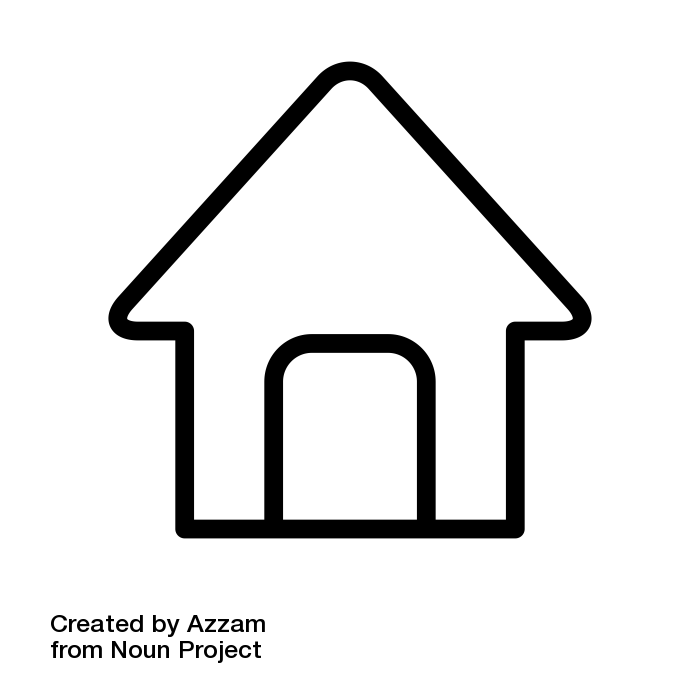
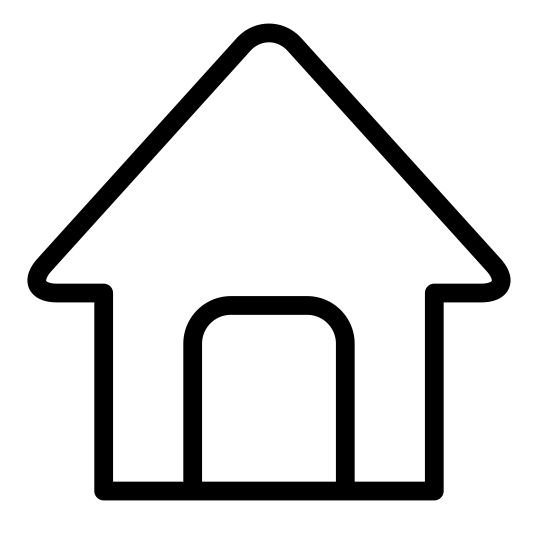
Css

Changed region(s): [[0.0299, 0.031, 0.957, 0.9599]]

diff --git a/dificuldades.html b/dificuldades.html
@@ -50,23 +50,22 @@
         <footer>
             <section class="border">
                 <a href="aprender.html">
-                    <h3>aprender</h3>
+                    <img class="img_raposa" src="Img\Fox.png" alt="raposa cozinheira">
                 </a>
-                <img src="https://fakeimg.pl/40x40" alt="raposa cozinheira">
+                
             </section>
     
             <section class="border">
                 <a href="index.html">
-                    <h3>home</h3>
+                    <img src="Img\Home.png" class="img_casa" alt="casinha">
                 </a>
-                <img src="https://fakeimg.pl/40x40" alt="casinha">
+                
             </section>
     
             <section class="border">
                 <a href="progresso.html">
-                    <h3>progresso</h3>
+                    <img class="img_progresso" src="Img\Progresso.png" alt="foto de estatisticas">
                 </a>
-                <img src="https://fakeimg.pl/50x50" alt="foto de estatisticas">
             </section>
         </footer>
     </body>

diff --git a/Css/Style_filtrados.css b/Css/Style_filtrados.css
@@ -62,3 +62,18 @@ h2{
     margin: 0.5rem;
     color: red;
 }
+
+.img_raposa{
+    max-width:80% ;
+    max-height: 80%;
+}
+
+.img_casa{
+    max-width:60% ;
+    max-height: 80%;
+}
+
+.img_progresso{
+    max-width:70% ;
+    max-height: 80%;
+}

diff --git a/Css/Style_filtro.css b/Css/Style_filtro.css
@@ -58,3 +58,18 @@ h2{
     margin: 0.5rem;
     color: red;
 }
+
+.img_raposa{
+    max-width:80% ;
+    max-height: 80%;
+}
+
+.img_casa{
+    max-width:60% ;
+    max-height: 80%;
+}
+
+.img_progresso{
+    max-width:70% ;
+    max-height: 80%;
+}

diff --git a/Css/Style_historico.css b/Css/Style_historico.css
@@ -66,3 +66,18 @@ h2{
     margin: 0.5rem;
     color: red;
 }
+
+.img_raposa{
+    max-width:80% ;
+    max-height: 80%;
+}
+
+.img_casa{
+    max-width:60% ;
+    max-height: 80%;
+}
+
+.img_progresso{
+    max-width:70% ;
+    max-height: 80%;
+}

diff --git a/Css/Style_index.css b/Css/Style_index.css
@@ -66,3 +66,18 @@ h2{
     margin: 0.5rem;
     color: red;
 }
+
+.img_raposa{
+    max-width:80% ;
+    max-height: 80%;
+}
+
+.img_casa{
+    max-width:60% ;
+    max-height: 80%;
+}
+
+.img_progresso{
+    max-width:70% ;
+    max-height: 80%;
+}

diff --git a/Css/Style_progresso.css b/Css/Style_progresso.css
@@ -53,3 +53,18 @@ h2{
     margin: 0.5rem;
     color: red;
 }
+
+.img_raposa{
+    max-width:80% ;
+    max-height: 80%;
+}
+
+.img_casa{
+    max-width:60% ;
+    max-height: 80%;
+}
+
+.img_progresso{
+    max-width:70% ;
+    max-height: 80%;
+}

diff --git a/Css/Style_receitas.css b/Css/Style_receitas.css
@@ -55,3 +55,18 @@ h2{
     margin: 0.5rem;
     color: red;
 }
+
+.img_raposa{
+    max-width:80% ;
+    max-height: 80%;
+}
+
+.img_casa{
+    max-width:60% ;
+    max-height: 80%;
+}
+
+.img_progresso{
+    max-width:70% ;
+    max-height: 80%;
+}

diff --git a/Css/Style_aprender.css b/Css/Style_aprender.css
@@ -52,3 +52,18 @@ li{
 h3{
     font-size: 0.9rem;
 }
+
+.img_raposa{
+    max-width:80% ;
+    max-height: 80%;
+}
+
+.img_casa{
+    max-width:60% ;
+    max-height: 80%;
+}
+
+.img_progresso{
+    max-width:70% ;
+    max-height: 80%;
+}

diff --git a/Css/Style_dificuldades.css b/Css/Style_dificuldades.css
@@ -63,3 +63,18 @@ h3{
 h2{
     margin: 0.5rem;
 }
+
+.img_raposa{
+    max-width:80% ;
+    max-height: 80%;
+}
+
+.img_casa{
+    max-width:60% ;
+    max-height: 80%;
+}
+
+.img_progresso{
+    max-width:70% ;
+    max-height: 80%;
+}
